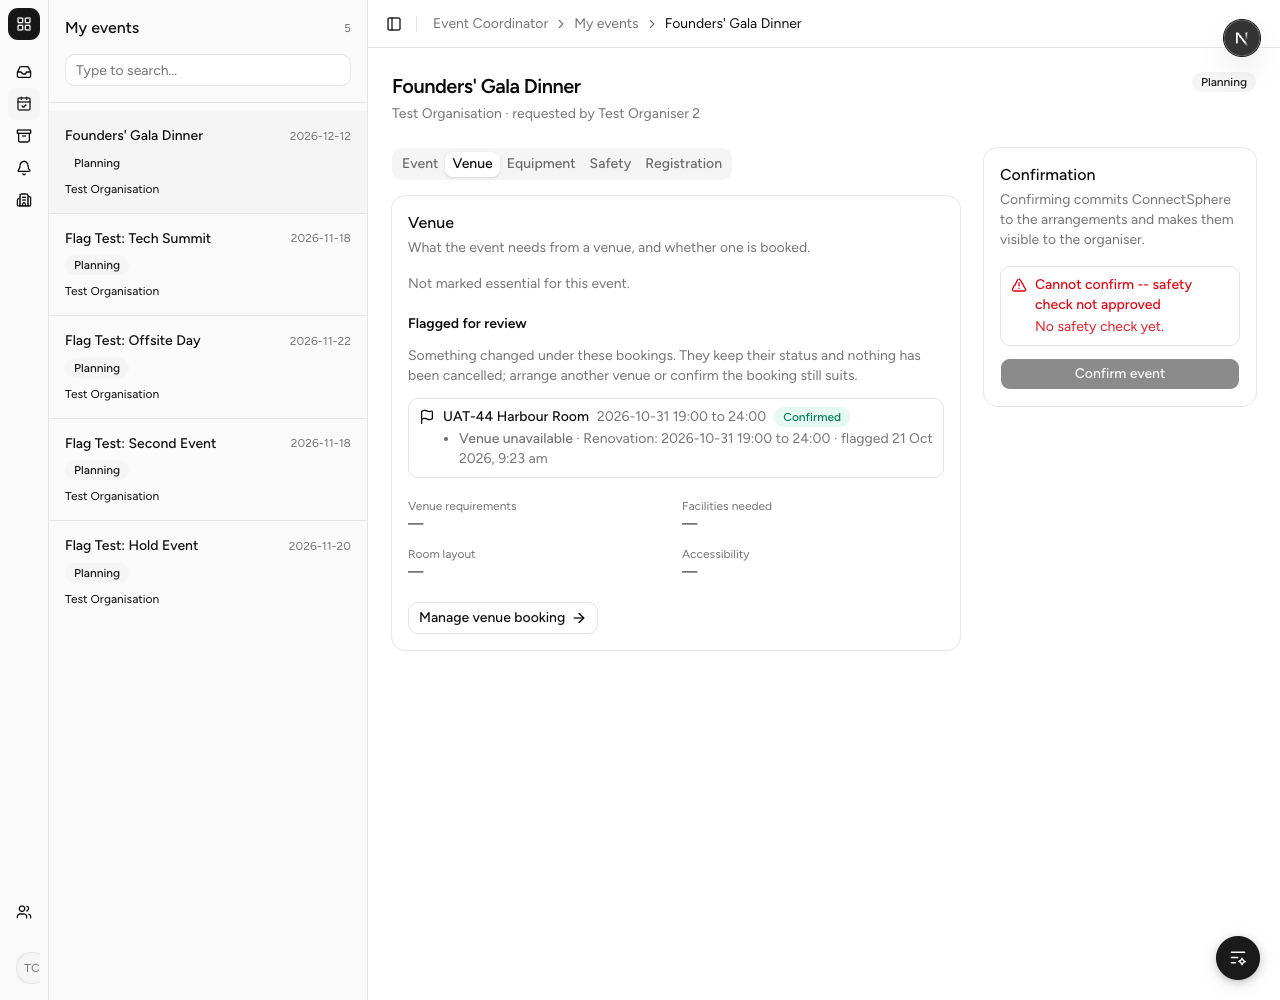
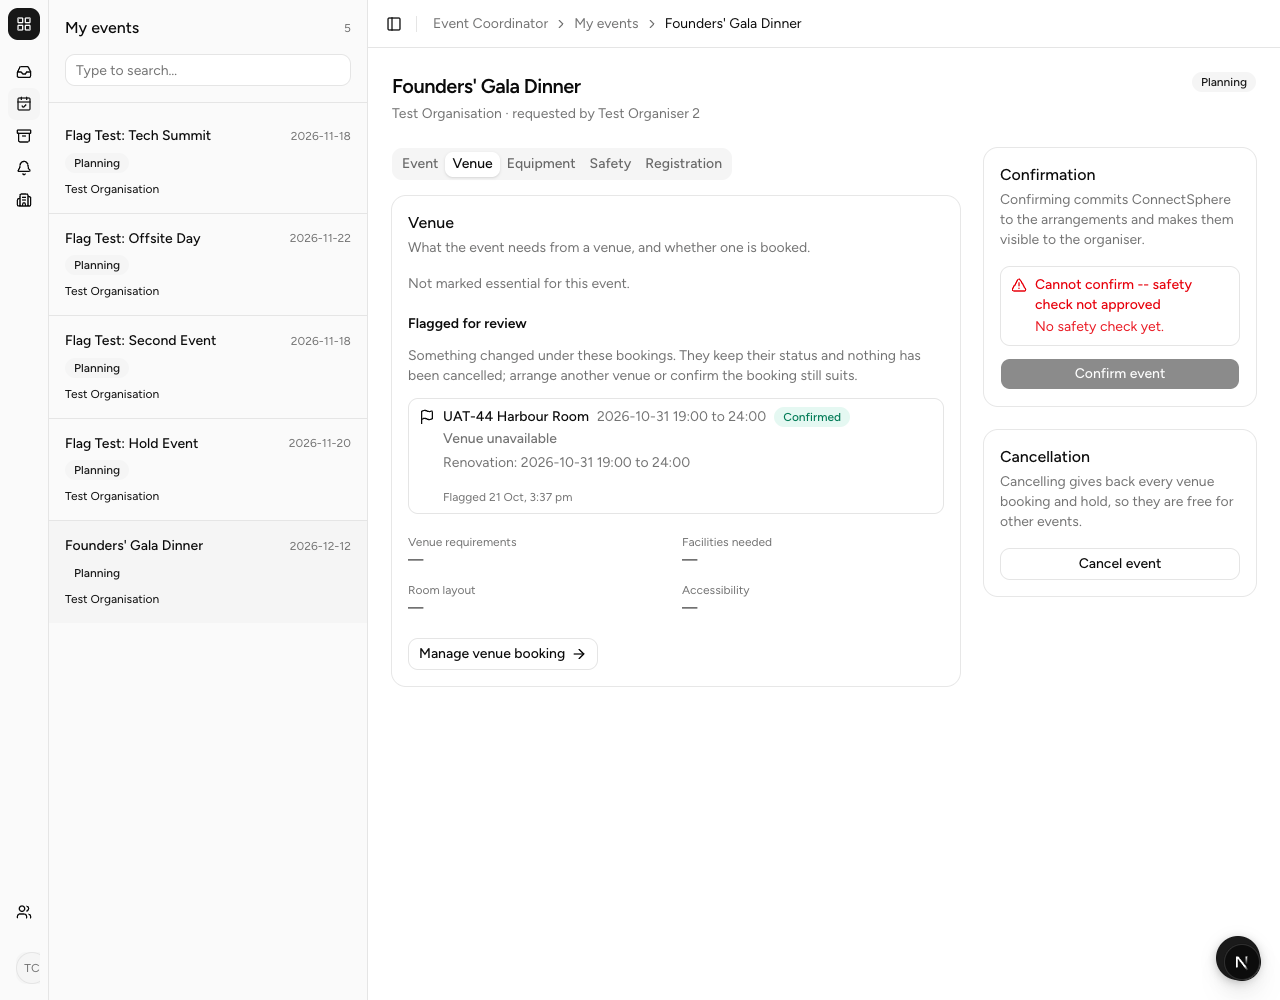
docs(testing): add the Request a venue case and clearer pre-checks for the flag cases (SPM-313)
Case 011 covers the badge and the lift. Case 004 needs blocks.sql to list only the case 001 block, 005 names each venue, and every screenshot is retaken on the new screens.

diff --git a/docs/testing/VENUE_FLAG_MANUAL_TESTS.md b/docs/testing/VENUE_FLAG_MANUAL_TESTS.md
@@ -6,18 +6,18 @@ Browser checks for **SPM-313: Flag bookings when a venue is marked unavailable**
 block a venue, every Confirmed booking or live Tentative Hold the block overlaps is **flagged**: a
 review marker with a reason, shown to the event's assigned coordinator beside the booking's status.
 Nothing is cancelled or changed. A Requested booking is not flagged, because Venue Staff cannot
-approve it over a block. A lifted block does not clear a flag: it stays, and its reason records the
-lift. The coordinator clears it (SPM-310) or replaces the booking (SPM-251). A flag ends with its
+approve it over a block. A lifted block does not clear a flag: it stays, and its reason shows an amber **Block lifted**
+badge with the time. The coordinator clears it (SPM-310) or replaces the booking (SPM-251). A flag ends with its
 booking: when a booking is cancelled, released, rejected or its hold expires, its flags close.
 
 The rule behind it is unit-tested (`bookingsToFlagForBlock (SPM-313)`); these cases check the pages
-end to end against Supabase. They are registered as `TC-VFLAG-001`–`TC-VFLAG-010` in
+end to end against Supabase. They are registered as `TC-VFLAG-001`–`TC-VFLAG-011` in
 [`../tests/manual-registry.csv`](../tests/manual-registry.csv). Report what you ran in the PR
 description's `## Manual test results` table; CI records it in
 [`manual-runs.csv`](../tests/manual-runs.csv) when the PR merges, so do not edit that file. The
 ticked boxes and screenshots below are the working record for this run.
 
-The flag shows on the coordinator's event page, under the **Venue** tab, in a **Flagged for review** section. Only flagged bookings are listed there, so a booking with no flag is simply not shown.
+The flag shows in two places: on the coordinator's event page, under the **Venue** tab, in a **Flagged for review** section that lists only flagged bookings; and on **Request a venue**, where a flagged booking's row has an amber **Flagged** badge that opens the reasons on hover, focus or click.
 
 ## The people and places
 
@@ -68,12 +68,19 @@ Do every step, in this order. Nothing else needs to be loaded or run by hand.
    ```bash
    supabase db query --file scripts/seed-booking-flags/seed.sql --local
    ```
-4. Check it loaded. This lists the bookings and must show **9 rows**; note the *event id* of Tech
-   Summit (cases 006 and 007 open it by address):
+4. Check it loaded. This lists the bookings and must show **9 rows**. `day_label` says which day
+   each is on (F, F + 1 …), so you never work F out by hand. Note the *event id* of Tech Summit
+   (case 006 opens it by address):
    ```bash
    supabase db query --file scripts/seed-booking-flags/show.sql --local
    ```
-5. Start the app: `pnpm dev:local`, then open <http://localhost:3000/auth/login>.
+5. Check no block is left over from an earlier run. This must list **no rows**; if it lists any, run
+   the teardown and seed commands below first. A stray block flags bookings the cases expect to be
+   clean:
+   ```bash
+   supabase db query --file scripts/seed-booking-flags/blocks.sql --local
+   ```
+6. Start the app: `pnpm dev:local`, then open <http://localhost:3000/auth/login>.
 
 Case 010 cancels a booking with SPM-20's button, so it needs that seed as well. Run these three
 after step 3 (case 010 is the only one that uses them):
@@ -222,7 +229,10 @@ Priya's: the Workshop on F AM, the Gala on F Night and the Quiz on F + 1 PM. Pri
 them flagged. This is the check that a block on one slot does not leak onto the slot before or after
 it, or onto the next day.
 
-**Preconditions:** After TC-VFLAG-001. Nothing new to record. Signed in as Priya (`coordinator2@test.com`).
+**Preconditions:** After TC-VFLAG-001. Nothing new to record. Run `blocks.sql`: it must list **one**
+block, Main Hall on F, PM only. If it lists more (a block ticking AM or Night, or one on another
+day), that block is what flags the neighbours: run the teardown and seed commands and start again at
+001. Signed in as Priya (`coordinator2@test.com`).
 
 **Steps:**
 1. As Priya open **My events**, then *Flag Test: Workshop*, *Flag Test: Gala* and *Flag Test: Quiz* in turn. On each open the **Venue** tab.
@@ -253,14 +263,14 @@ cancellation.
 1. Open *Flag Test: Tech Summit*. Read its header and status, then the **Venue** tab.
 2. Read the database:
    ```sql
-   select b.status, e.status as event_status, e.name, e.preferred_date
-     from booking b join event e on e.event_id = b.event_id
-    where e.name = 'Flag Test: Tech Summit' order by b.booking_id;
+   select v.location, b.status, e.status as event_status, e.name, e.preferred_date
+     from booking b join event e on e.event_id = b.event_id join venue v on v.venue_id = b.venue_id
+    where e.name = 'Flag Test: Tech Summit' order by v.location;
    ```
 
 **Expected Result:**
 - Step 1: the header reads *Flag Test: Tech Summit* with the **Planning** badge, and the flagged Hall A booking shows **Confirmed**.
-- Step 2: both bookings `Confirmed`, the event `Planning`, its date F.
+- Step 2: two rows, one for each venue the event is booked at (Main Hall and Studio), both bookings `Confirmed`, the event `Planning`, its date F.
 
 **Status:** [x] Pass [ ] Fail — 21/10/2026, run in Chrome via Playwright for JameszLau
 
@@ -319,12 +329,13 @@ database.
 
 ---
 
-### TC-VFLAG-008: Lifting a block keeps the flag and notes the lift (AC6)
+### TC-VFLAG-008: Lifting a block keeps the flag and shows the lift (AC6)
 
 **What this tests:** Lifting a block never undoes a flag; the coordinator decides what happens to it.
 After TC-VFLAG-007 Tech Summit has two reasons. Sam lifts the first block (Maintenance). Dana should
-still see the flag, with the Maintenance reason now saying the block was lifted and when, and the
-Equipment failure reason unchanged. Tech Summit stays Confirmed.
+still see the flag. The Maintenance reason should now carry an amber **Block lifted** badge with the
+time, and a line saying the venue is free again but the flag stays until she acts. The Equipment
+failure reason should have no badge. Tech Summit stays Confirmed.
 
 **Preconditions:** After TC-VFLAG-007. Signed in as Sam, then Dana.
 
@@ -333,7 +344,7 @@ Equipment failure reason unchanged. Tech Summit stays Confirmed.
 2. As Dana open *Flag Test: Tech Summit* and its **Venue** tab, and read its flag.
 
 **Expected Result:**
-- Step 2: both reasons are still listed. The Maintenance reason reads "Maintenance: F 13:00 to 18:00, block lifted <today, time>". The Equipment failure reason is as before. The booking still shows **Confirmed**.
+- Step 2: both reasons are still listed. The Maintenance reason shows an amber badge "Block lifted · <date, time>" and its text, "Maintenance: F 13:00 to 18:00", is unchanged. The Equipment failure reason has no badge. The booking still shows **Confirmed**.
 
 **Status:** [x] Pass [ ] Fail — 21/10/2026, run in Chrome via Playwright for JameszLau
 
@@ -405,4 +416,32 @@ from today (the day the SPM-20 seed books).
 **Status:** [x] Pass [ ] Fail — 21/10/2026, run in Chrome via Playwright for JameszLau
 
 **Screenshots:** [step2-dana-two-flags](../screenshots/2026-10-21_TC-VFLAG-010_step2-dana-two-flags.png) · [step3-dana-confirm-cancel](../screenshots/2026-10-21_TC-VFLAG-010_step3-dana-confirm-cancel.png) · [step4-dana-one-flag](../screenshots/2026-10-21_TC-VFLAG-010_step4-dana-one-flag.png)
+
+---
+
+### TC-VFLAG-011: The flag shows on Request a venue, and says when a block was lifted (AC4, AC6)
+
+**What this tests:** Dana manages her bookings on **Request a venue**, so a flagged booking has to
+show there too, not only on the event page. After TC-VFLAG-010 the Founders' Gala Dinner has a
+Released morning booking (P) and a Confirmed night booking (Q) that is still flagged. On
+**Request a venue**, Q's row should carry an amber **Flagged** badge beside its status, and P's row
+should not. Opening the badge shows the reasons, the time it was flagged and the note that nothing has
+been cancelled. When Sam then lifts the Harbour Room block, the same card should show an amber **Block
+lifted** badge on that reason, with Q still Confirmed and still flagged.
+
+**Preconditions:** After TC-VFLAG-010. Signed in as Dana, then Sam.
+
+**Steps:**
+1. As Dana open **My events**, *Founders' Gala Dinner*, the **Venue** tab, then **Manage venue booking**.
+2. Read the Status column of the Harbour Room rows for C AM (P) and C Night (Q). Hover over, or click, the **Flagged** badge on Q.
+3. As Sam open **Unavailability**, find the Harbour Room **Renovation** block that is In force and click **Lift**.
+4. As Dana reload **Request a venue** and open the **Flagged** badge on Q again.
+
+**Expected Result:**
+- Step 2: P shows **Released** and no badge. Q shows **Confirmed** and an amber **Flagged** badge. The card reads "Flagged for review", "Something changed under this booking. It keeps its status and nothing has been cancelled.", then "Venue unavailable", "Renovation: C 19:00 to 24:00" and "Flagged <date, time>".
+- Step 4: Q still shows **Confirmed** and **Flagged**. The card's reason now carries an amber "Block lifted · <date, time>" badge and the line "The venue is free again, but the flag stays until you act on it."
+
+**Status:** [x] Pass [ ] Fail — 21/10/2026, run in Chrome via Playwright for JameszLau
+
+**Screenshots:** [step2-dana-flagged-badge-card](../screenshots/2026-10-21_TC-VFLAG-011_step2-dana-flagged-badge-card.png) · [step4-dana-card-after-lift](../screenshots/2026-10-21_TC-VFLAG-011_step4-dana-card-after-lift.png)
 
